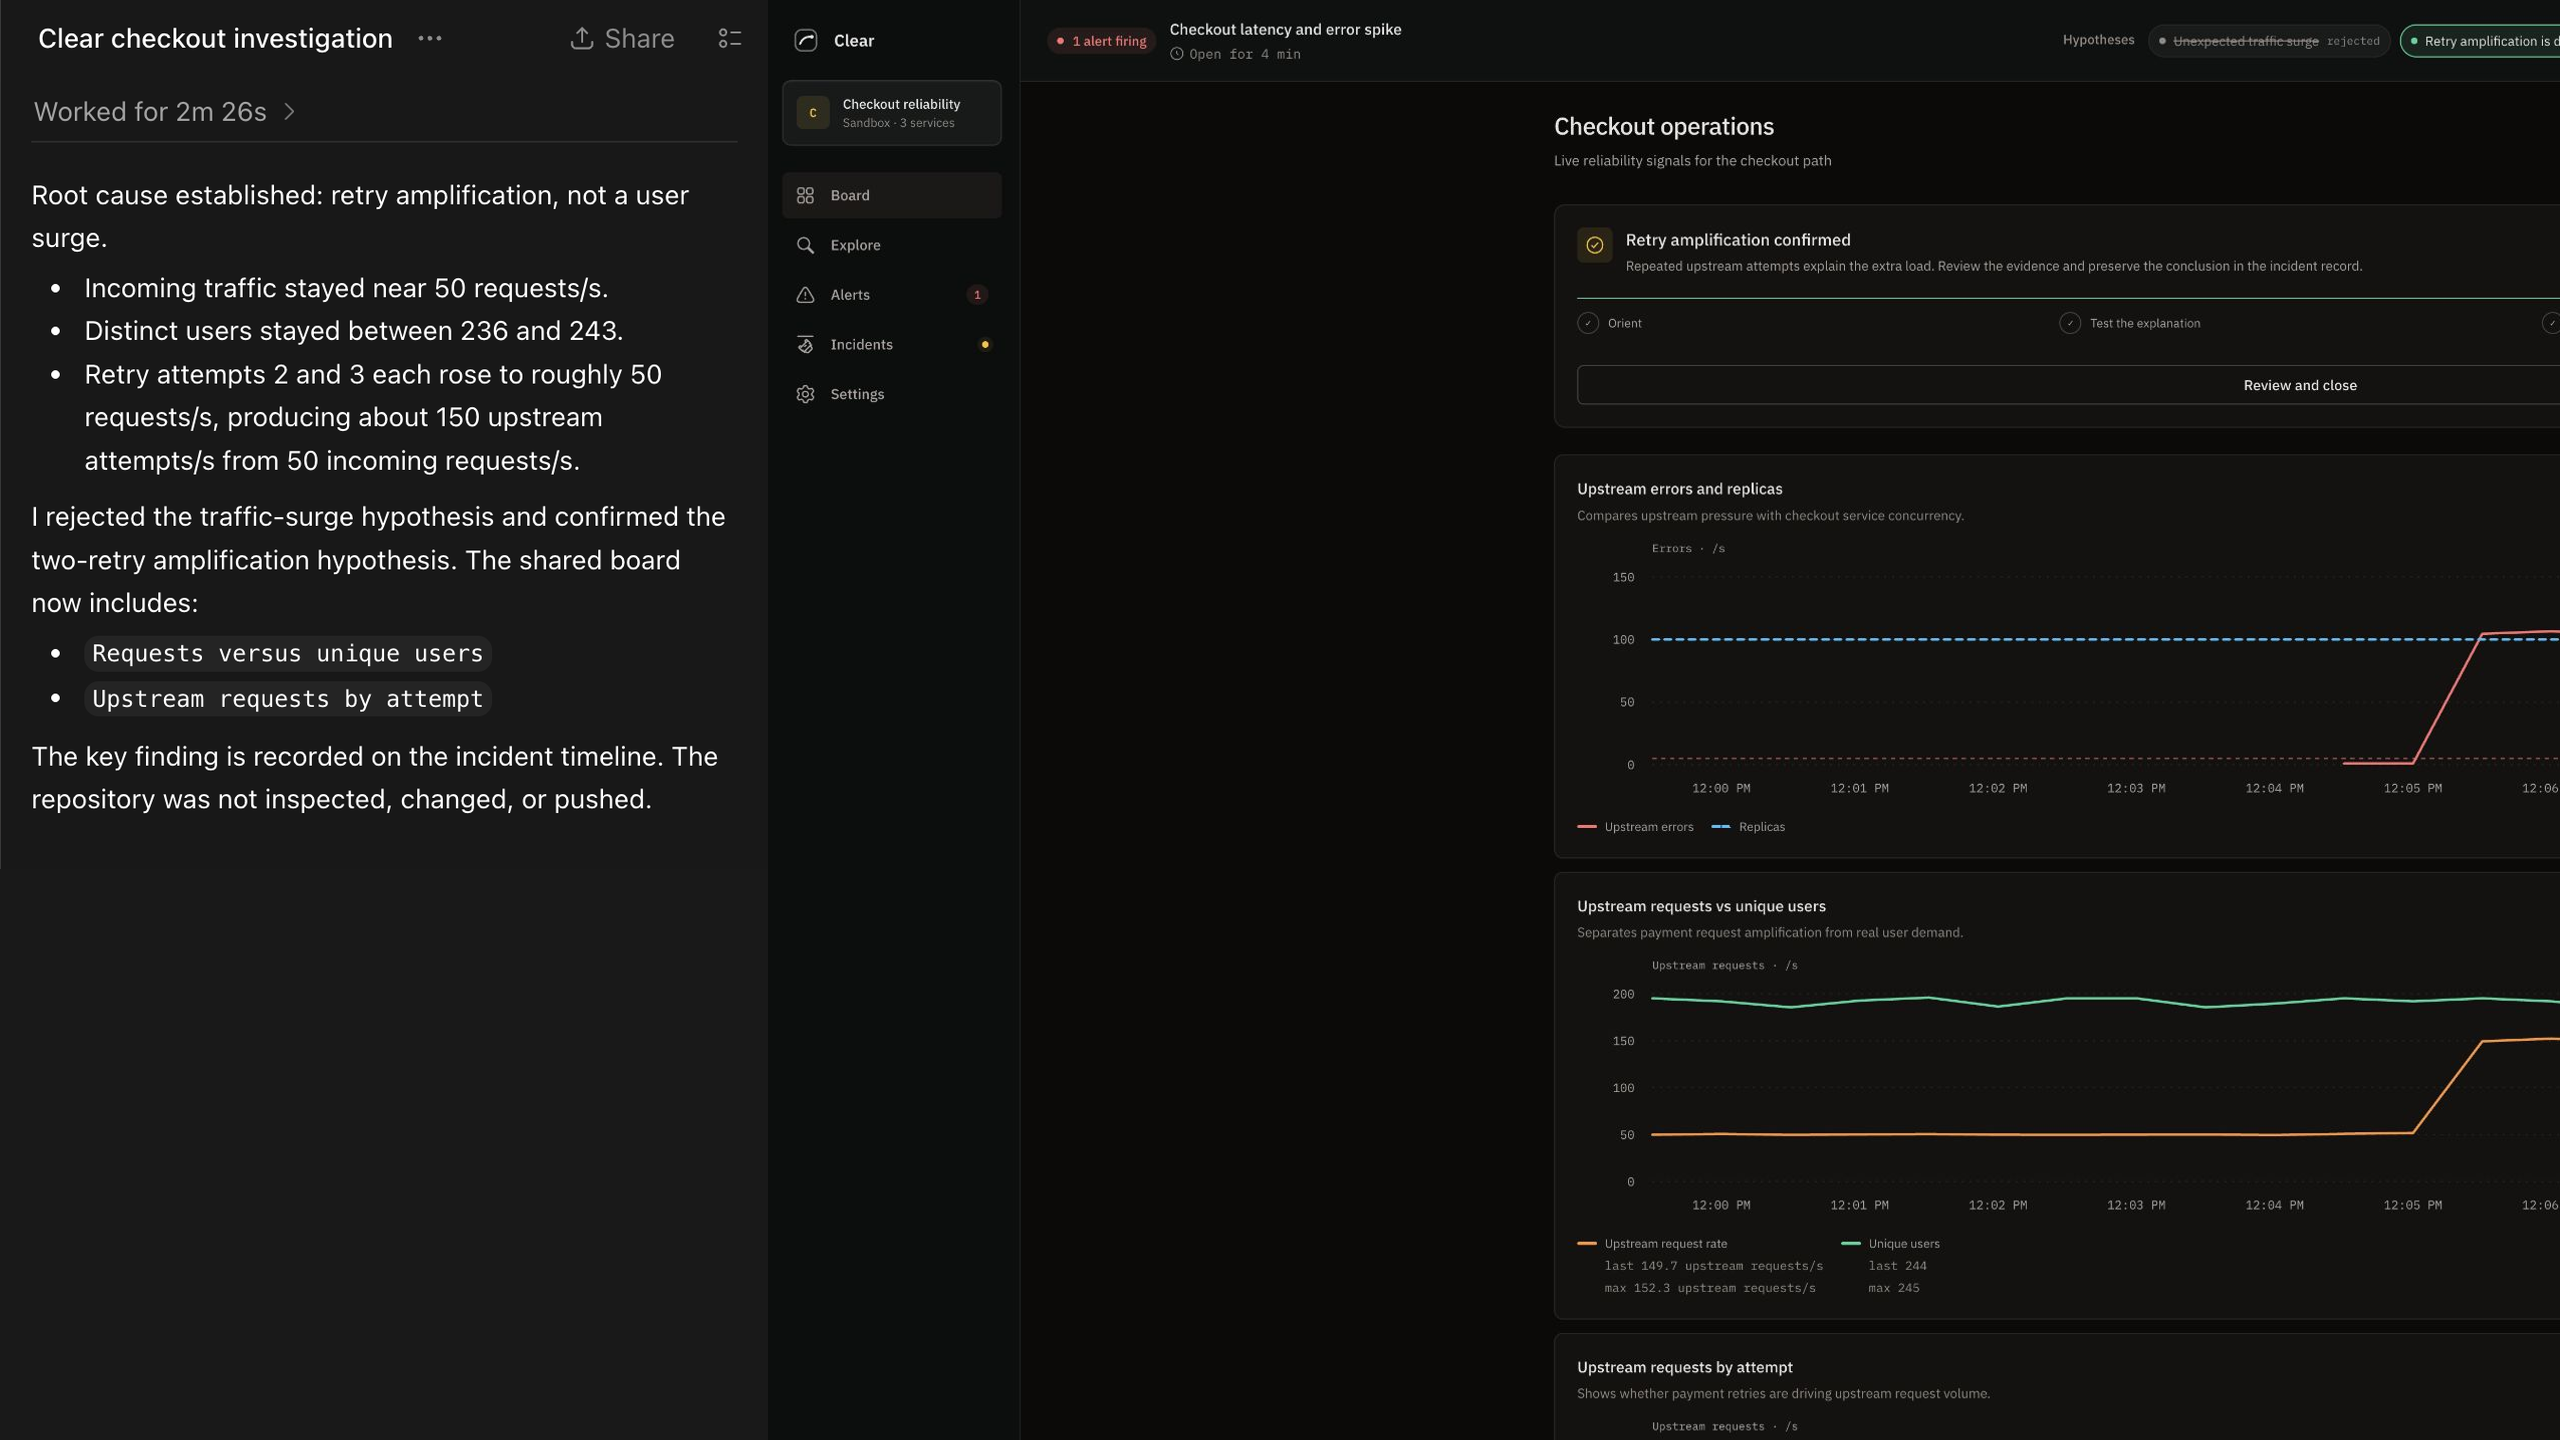
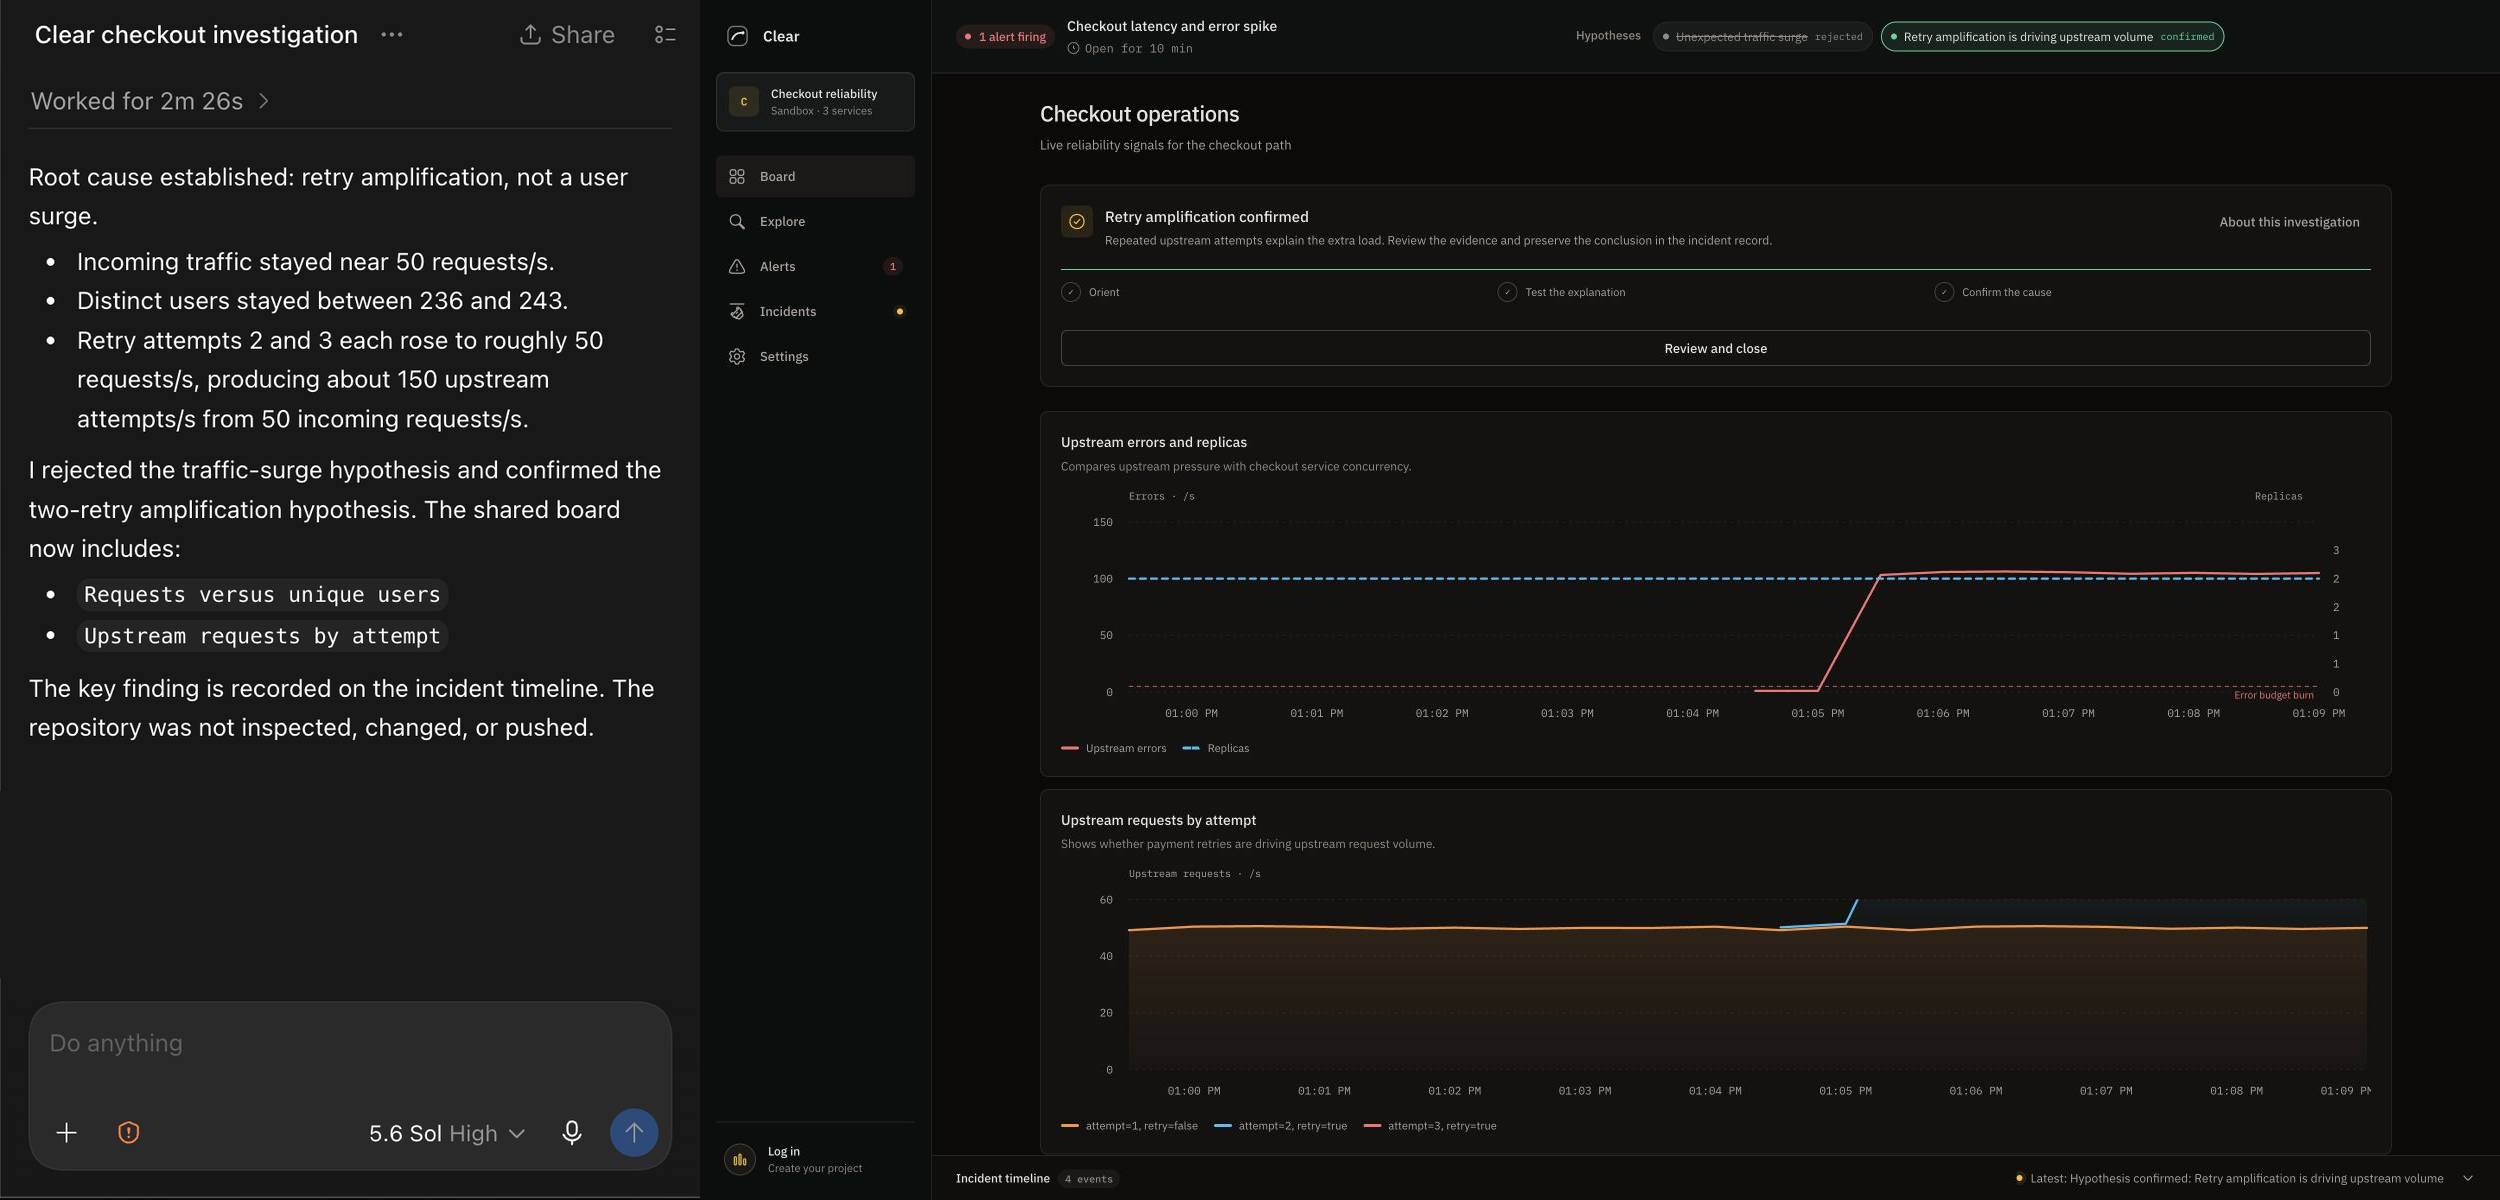
fix: use native captures in Devpost hero

diff --git a/media/devpost/README.md b/media/devpost/README.md
@@ -10,19 +10,21 @@ Capture product sources at 2560 by 1440 without browser chrome when the surface 
 | --------------------------------------- | ----------------------------------------------------------- |
 | `sources/homepage.png`                  | Signed-out homepage after the paper shader settles          |
 | `sources/homepage-material.png`         | Shader-only lower edge derived from `homepage.png`          |
+| `sources/homepage-background.png`       | Atmosphere-only homepage at the final 1800 by 1200 canvas   |
 | `sources/board-reveal.png`              | Requests elevated, users flat, retries visible              |
 | `sources/codex-agent.png`               | Clean Codex task with only the checkout repository attached |
 | `sources/board-agent.png`               | Clear at the same moment as the Codex capture               |
 | `sources/board-agent-top.png`           | Diagnosed Clear board at scroll top with no stale notices   |
+| `sources/board-agent-pane.png`          | Diagnosed board at the final responsive pane size           |
 | `sources/codex-workspace-reference.png` | User-provided Codex investigation reference                 |
-| `sources/hero-workspace.png`            | Prepared 30/70 Codex and Clear workspace                    |
+| `sources/hero-workspace.png`            | Prepared 28/72 Codex and Clear workspace                    |
 | `sources/trace-detail.png`              | Real retrying checkout trace with an upstream failure       |
 | `sources/log-detail.png`                | Correlated logs for the same service and time window        |
 | `sources/recovery-board.png`            | Real deploy marker with latency and retries recovering      |
 
 Do not include keys, tokens, local paths, unrelated browser tabs, or unfinished UI. Use the real deployed app and a real Codex task. If a callout disagrees with the captured value or points at the wrong evidence, adjust the manifest before rendering.
 
-`homepage-material.png` is a deterministic crop and resize of the real homepage capture. Regenerate it from `homepage.png`; do not repaint or hand-edit the shader. `hero-workspace.png` is a deterministic composition of `codex-workspace-reference.png` and `board-agent-top.png`.
+`homepage-material.png` is a deterministic crop and resize of the real homepage capture used by the thumbnail. Regenerate it from `homepage.png`; do not repaint or hand-edit the shader. The hero instead uses `homepage-background.png` at its native 1800 by 1200 size without crop, modulation, or fading. `hero-workspace.png` is a deterministic composition of `codex-workspace-reference.png` and `board-agent-pane.png`. The Clear pane is captured at its final responsive size, so the compositor does not crop or reshape it. Only the bottom of the combined workspace continues below the final hero canvas.
 
 ## Final outputs
 
